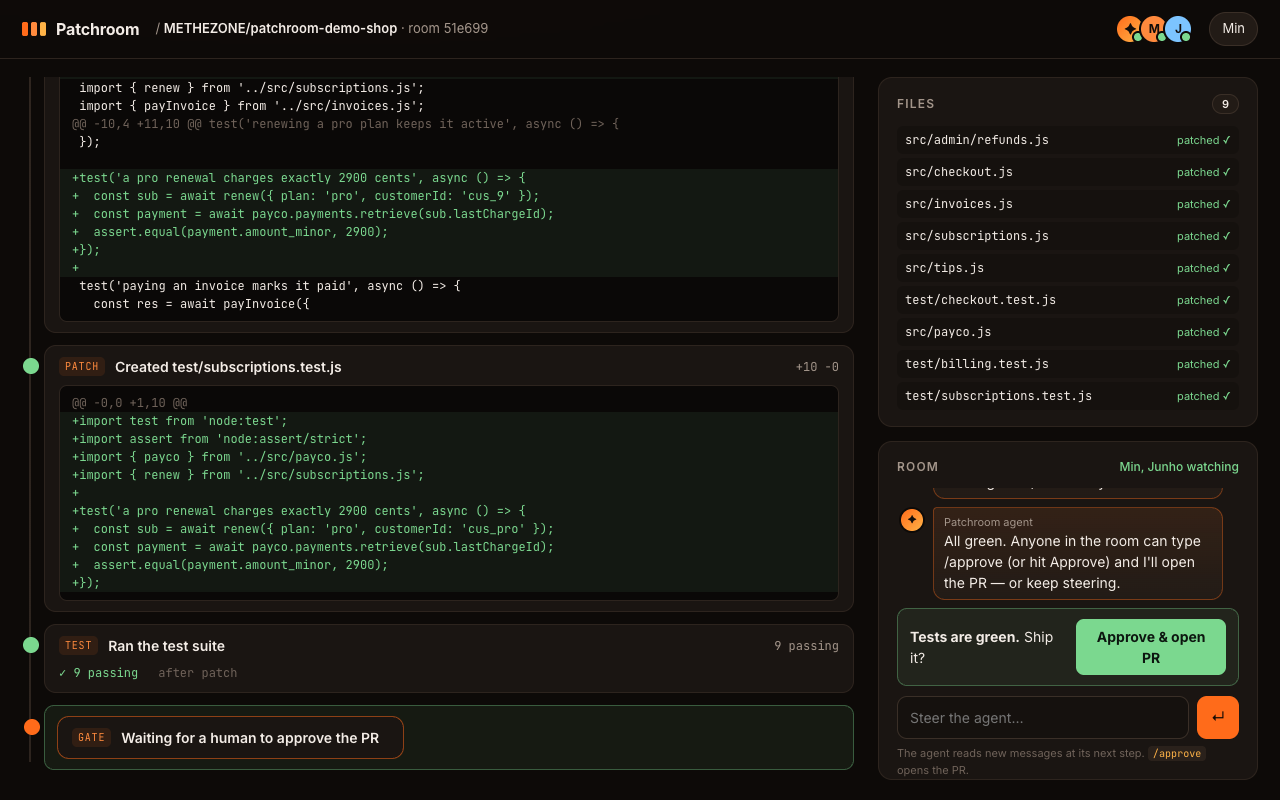
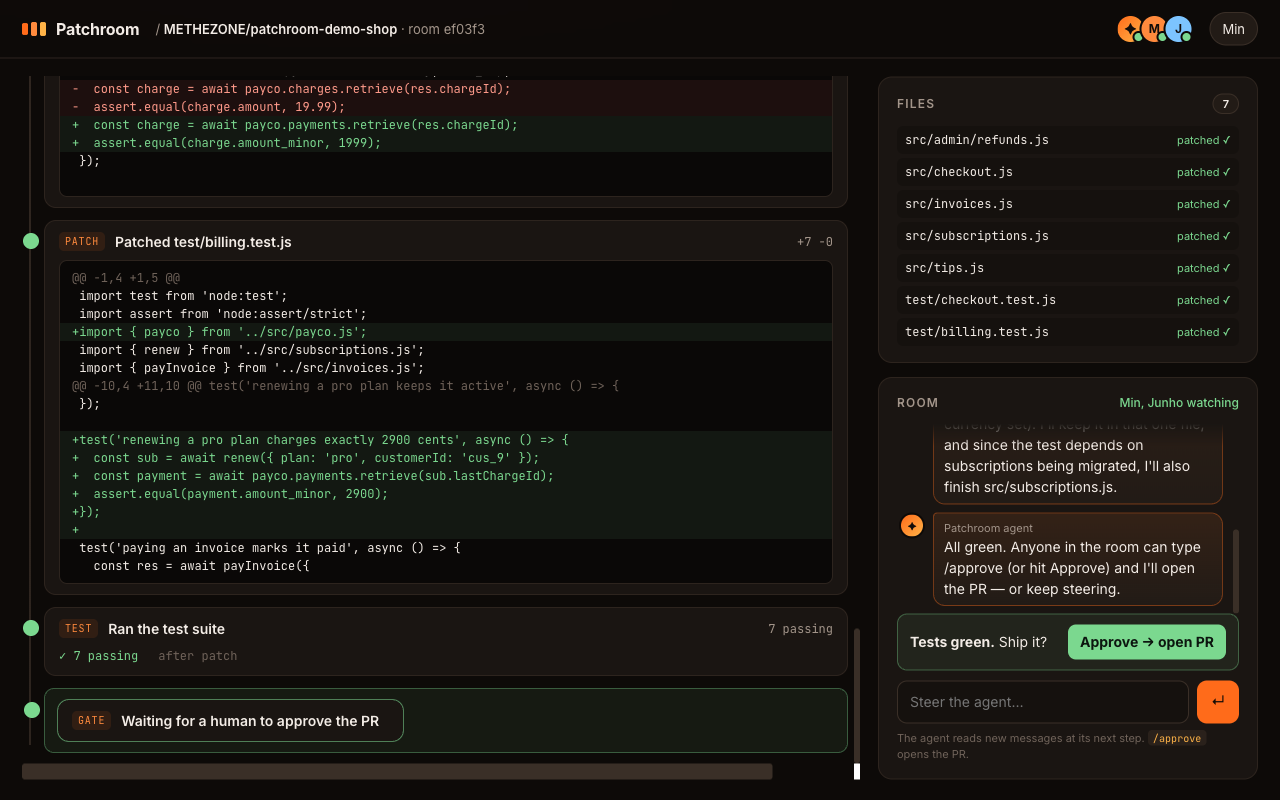
Demo script, recorder (two-browser side-by-side), steering targets, UI polish

diff --git a/public/style.css b/public/style.css
@@ -42,23 +42,23 @@ button { font: inherit; cursor: pointer; }
 .me { background: var(--card2); border: 1px solid var(--line2); color: var(--text); padding: 6px 12px; border-radius: 999px; font-size: 13px; }
 
 /* lobby */
-.lobby { position: relative; z-index: 1; max-width: 1120px; margin: 0 auto; padding: 56px 24px; }
+.lobby { position: relative; z-index: 1; max-width: 1120px; margin: 0 auto; padding: 30px 24px; }
 .eyebrow { color: var(--orange2); text-transform: uppercase; letter-spacing: .14em; font-size: 11px; font-weight: 600; }
-.hero h1 { font-size: 46px; line-height: 1.08; letter-spacing: -.03em; margin: 12px 0 16px; }
+.hero h1 { font-size: 40px; line-height: 1.08; letter-spacing: -.03em; margin: 10px 0 12px; }
 .hero h1 em { font-style: normal; color: var(--orange); }
-.sub { color: var(--mute); max-width: 720px; font-size: 16px; }
+.sub { color: var(--mute); max-width: 760px; font-size: 15px; margin: 0; }
 .sub b { color: var(--text); }
-.grid2 { display: grid; grid-template-columns: 1.3fr 1fr; gap: 18px; margin-top: 36px; }
+.grid2 { display: grid; grid-template-columns: 1.3fr 1fr; gap: 18px; margin-top: 24px; }
 .card { background: var(--card); border: 1px solid var(--line); border-radius: 14px; padding: 16px 18px; }
 .card-h { display: flex; justify-content: space-between; align-items: center; font-weight: 600; margin-bottom: 12px; color: var(--mute); font-size: 12px; text-transform: uppercase; letter-spacing: .1em; }
 .pill { background: var(--card2); border: 1px solid var(--line2); border-radius: 999px; padding: 1px 9px; font-size: 11px; color: var(--text); letter-spacing: 0; }
 .change-card .prov { display: flex; align-items: center; gap: 10px; }
 .logo { width: 34px; height: 34px; border-radius: 9px; background: linear-gradient(135deg, #6c5cff, #3b2fc9); display: grid; place-items: center; font-weight: 800; color: white; }
-.change-card h3 { margin: 14px 0 6px; font-size: 20px; letter-spacing: -.01em; }
+.change-card h3 { margin: 10px 0 4px; font-size: 18px; letter-spacing: -.01em; }
 .ver { font-family: var(--mono); color: var(--mute); font-size: 12px; }
 .ver b { color: var(--orange2); }
-.brk { margin: 14px 0; display: grid; gap: 8px; }
-.brk div { font-family: var(--mono); font-size: 12px; background: var(--bg2); border: 1px solid var(--line); border-radius: 8px; padding: 8px 10px; }
+.brk { margin: 10px 0 14px; display: grid; gap: 6px; }
+.brk > div { font-family: var(--mono); font-size: 12px; background: var(--bg2); border: 1px solid var(--line); border-radius: 8px; padding: 6px 10px; }
 .brk .b { color: #ff9a8a; text-decoration: line-through; text-decoration-color: rgba(255, 93, 93, .5); }
 .brk .a { color: var(--green); }
 .btn { display: inline-flex; align-items: center; gap: 8px; background: var(--orange); color: #160c05; border: 0; border-radius: 10px; padding: 11px 18px; font-weight: 700; transition: transform .2s var(--ease), box-shadow .2s; box-shadow: 0 8px 30px -8px rgba(255, 107, 26, .6); }
@@ -73,7 +73,7 @@ button { font: inherit; cursor: pointer; }
 
 /* room */
 .room { position: relative; z-index: 1; display: grid; grid-template-columns: minmax(0, 1fr) 380px; gap: 18px; padding: 18px 22px 22px; height: calc(100vh - 57px); }
-.stage { overflow-y: auto; padding-right: 6px; scroll-behavior: smooth; }
+.stage { overflow-x: hidden; overflow-y: auto; padding-right: 6px; scroll-behavior: smooth; }
 .stage::-webkit-scrollbar, .msgs::-webkit-scrollbar { width: 6px; }
 .stage::-webkit-scrollbar-thumb, .msgs::-webkit-scrollbar-thumb { background: var(--line2); border-radius: 3px; }
 .stage-h { display: flex; justify-content: space-between; align-items: flex-end; margin: 6px 0 18px; }

diff --git a/DEMO.md b/DEMO.md
@@ -1,0 +1,61 @@
+# Patchroom: 2-minute demo script
+
+**Setup (before recording, about 2 minutes)**
+
+```bash
+cd ~/Projects/patchroom && npm start          # → http://localhost:4317
+```
+
+- Use two browser windows side by side, both dark:
+  - **Left (Min, customer engineer):** `http://localhost:4317/?as=Min`
+  - **Right (Junho, PayCo DevRel):** opens later from the room URL with `?as=Junho`
+- Open a third tab with `https://github.com/METHEZONE/patchroom-demo-shop/pulls`. Close any old Patchroom PRs first.
+- Record the screen with QuickTime (⌘⇧5 → *Record Entire Screen*), or use the backup recording below.
+- The run takes about 70 seconds: about 45 s of agent work, plus about 20 s of CI after approval. Keep the narration moving.
+
+> **Backup:** `recordings/side-by-side.mp4` is a real two-browser run (Playwright, about 80 s, no audio), made with `npm run demo`. If the live run misbehaves, voice over this file instead.
+
+---
+
+## Script (target 1:55)
+
+| time | on screen / click | say (English) |
+|---|---|---|
+| **0:00–0:15** | Lobby (left window). Point at the PayCo card's red→green rows. | "When Stripe or any API ships a breaking change, thousands of teams each dig through the changelog, find every call site and pray. YC calls the fix *self-maintaining APIs*: Dependabot for APIs. We think that agent shouldn't run alone in a private chat." |
+| **0:15–0:22** | Click **⚡ Publish PayCo 2.0.0**. The room opens. | "So this is **Patchroom**. PayCo just published 2.0: charges become payments, dollars become integer cents. Patchroom finds every subscribed repo and opens a *live room* for each one." |
+| **0:22–0:30** | Paste the room URL into the right window with `?as=Junho`. Point at the avatars top-right and the "Junho is watching" toast. | "This is multiplayer AI. Junho from PayCo's DevRel drops into the same session. We both see the agent's steps stream in, with presence, like a Google Doc." |
+| **0:30–0:45** | The timeline runs: *Cloned → Scanned 12 usages in 6 files → Bumped SDK → 6 failing*. | "It cloned our real repo, found twelve call sites, bumped the SDK, and proved the break: six tests are red. Now it plans: watch out for float-to-cents, currency is now required." |
+| **0:45–1:05** | As the first **PATCH** diff appears, type in **Junho's** window: `Also add a test that a pro renewal charges exactly 2900 cents.` ↵. The tag shows *queued* in both windows. | "Junho knows the classic bug from other customers, so he steers mid-run. Anyone in the room can. The message is queued, and the agent picks it up at its next step boundary." |
+| **1:05–1:20** | The **STEER** card appears: the agent replies to Junho by name and lists the files it will touch. The tag changes to *acknowledged*, then *applied ✓*. | "The agent acknowledges publicly, says exactly what it will do, re-queues those files, and applies the instruction to every patch from then on. That's the difference from a private chat: the context of the whole team lands in the code." |
+| **1:20–1:35** | Diffs keep streaming. **Ran the test suite → ✓ 9 passing**. The **Ship it?** box appears in both windows. | "All green, including Junho's new test. But it doesn't push on its own. A human in the room has to approve." |
+| **1:35–1:45** | In **Min's** window, click **Approve → open PR**. The PR card appears and CI is pending. | "I approve, and it pushes a branch and opens a real GitHub pull request." |
+| **1:45–1:55** | Click the PR link. Show the PR body ("Steered live by the team: Junho …", "approved by Min") and the green **test** check. | "The PR credits who steered and who approved, and GitHub Actions is green. One provider change, every customer patched, together. That's Patchroom." |
+
+**Fallback lines if CI is slow:** "CI is running on GitHub right now. Here's the previous green run." Open the PR's Checks tab.
+
+---
+
+## Exact steering line to type (copy-paste)
+
+```
+Also add a test that a pro renewal charges exactly 2900 cents.
+```
+
+Alternative steering lines that also work:
+- `Keep the variable names as charge — don't rename locals.`
+- `Tips should be in EUR, not USD.`
+
+## Reset between takes
+
+```bash
+gh pr list --repo METHEZONE/patchroom-demo-shop --state open --json number --jq '.[].number' \
+  | xargs -I{} gh pr close {} --repo METHEZONE/patchroom-demo-shop --delete-branch
+```
+
+Restart `npm start` if you want an empty lobby. Rooms live in memory.
+
+## Judging hooks (say them if there's Q&A)
+
+- **Problem-solution clarity:** this merges two YC RFS: Self-Maintaining APIs and Multiplayer AI (QM-style shared sessions).
+- **Technical execution:** it's all real: git clone, SDK bump, red tests, LLM patches streamed token by token, a self-repair loop, `gh pr create`, and a CI poll. The event-sourced room means late joiners replay the exact state.
+- **Creativity:** the provider's DevRel and the customer's engineer meet *inside* the agent session. The PR is a record of the collaboration, not just the diff.

diff --git a/README.md b/README.md
@@ -4,6 +4,12 @@
 
 ![Patchroom room: agent timeline, live diffs, two people steering](docs/steering.png)
 
+**Live result from the demo run:** [METHEZONE/patchroom-demo-shop#5](https://github.com/METHEZONE/patchroom-demo-shop/pull/5). The PayCo 2.0 migration across 6 files includes the test Junho asked for mid-run, approved in the room by Min, with GitHub Actions green. A real two-browser recording is in `recordings/side-by-side.mp4` (generated locally by `npm run demo`).
+
+| Two people, one room | Human gate → PR + CI |
+|---|---|
+| ![](docs/gate.png) | ![](docs/pr.png) |
+
 > Built in one day at the c0mpiled-17 Seoul hackathon (2026-11-09). It combines two YC Fall 2026 Requests for Startups:
 > - **[Self-Maintaining APIs](https://www.ycombinator.com/rfs)** (Harsha Gaddipati): "Dependabot for APIs". When Stripe ships a breaking change, an agent fixes every customer's code and opens the PR.
 > - **[Multiplayer AI](https://www.ycombinator.com/rfs)** (Aaron Epstein): agent sessions should be shared and live, not private chats. The idea is inspired by [yc-software/qm](https://github.com/yc-software/qm).
